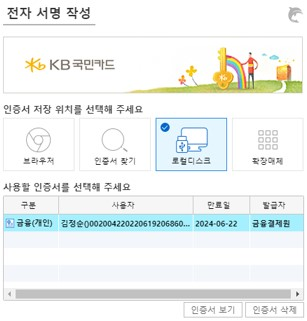
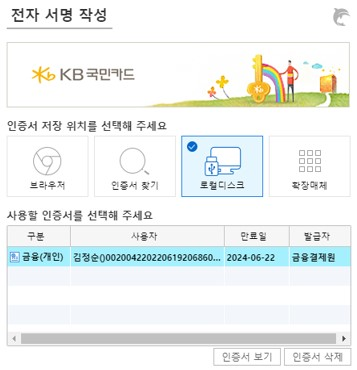
3

diff --git a/css/style.css b/css/style.css
@@ -4,7 +4,14 @@
 a {text-decoration:none; color:#333; font-family: 'Noto Sans KR', sans-serif;}
 ul,ol,li {list-style: none;}
 body {font-size: 16px; color:#333; font-family: 'Noto Sans KR', sans-serif; }
-
+html{
+  /* 드래그 방지 */
+  -ms-user-select: none;
+  -moz-user-select: -moz-none;
+  -webkit-user-select: none;
+  -khtml-user-select: none;
+  user-select: none;
+}
 
 /* 1.상단 GNB */
 header {
@@ -190,8 +197,8 @@ header > div:nth-child(2) span {
   display: none;
 }
 #block2 {
-  width: 330px;
-  height: 440px;
+  width: 370px;
+  height: 490px;
   background-color: #fff;
   margin: 0 auto;
   margin-top: 70px;
@@ -204,10 +211,13 @@ header > div:nth-child(2) span {
   align-items: center;
   justify-content: center;
 }
+/* #block2 div:nth-child(1) img {
+  width: 350px;
+} */
 #block3 {
   /* background-color: #ebe3c5; */
   margin: 0 auto;
-  width: 303px;
+  width: 345px;
 }
 #block3 > div:nth-child(1) {
   display: flex;
@@ -260,7 +270,7 @@ header > div:nth-child(2) span {
 /* 2.상단 GNB */
 #header41 {
   background-color: #F8F9FB;
-  height: 1050px;
+  height: 770px;
   display: flex;
   flex-direction: column;
   align-items: center;

diff --git a/kbcardlist3.html b/kbcardlist3.html
@@ -60,18 +60,20 @@
 
   <!-- 4.상단 GNB -->
   <div id="header43">
-    <div><img src="./img/33/111.png"></div>
+    <div><img src="./img/33/222.png"></div>
   </div>
   <!-- 4.상단 GNB -->
 
   <!-- 5.상단 GNB -->
   <div id="button">
-    <a href="./kbcardlist.html"><div id="button1">1</div></a>
+    <a href="./kbcardlist.html"><div>1</div></a>
     <a href="./kbcardlist2.html"><div>2</div></a>
-    <a href="./kbcardlist3.html"><div>3</div></a>
+    <a href="./kbcardlist3.html"><div id="button1">3</div></a>
   </div>
 
   <!-- 5.상단 GNB -->
+
+
 
 
 

diff --git a/kbcard.html b/kbcard.html
@@ -67,13 +67,15 @@
       <img src="./img/999/222.png">
     </div>
 
-    <div><img src="./img/999/111.png"></div>
-
-
+    <div><img src="./img/444/11.jpg"></div>
   </div>
   <!-- 4.상단 GNB -->
 
-
+  <!-- 4.상단 GNB -->
+  <!-- <div id="header4">
+    <div><img src="./img/444/11.jpg"></div>
+  </div> -->
+  <!-- 4.상단 GNB -->
 
 
   <!-- 5.상단 GNB -->

diff --git a/kbcardlist2.html b/kbcardlist2.html
@@ -68,6 +68,7 @@
   <div id="button">
     <a href="./kbcardlist.html"><div>1</div></a>
     <a href="./kbcardlist2.html"><div id="button1">2</div></a>
+    <a href="./kbcardlist3.html"><div>3</div></a>
   </div>
 
   <!-- 5.상단 GNB -->
